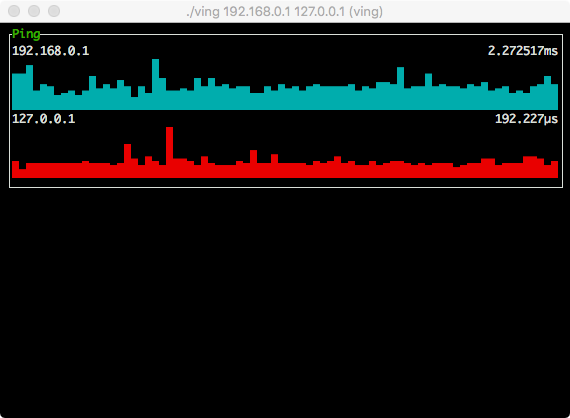
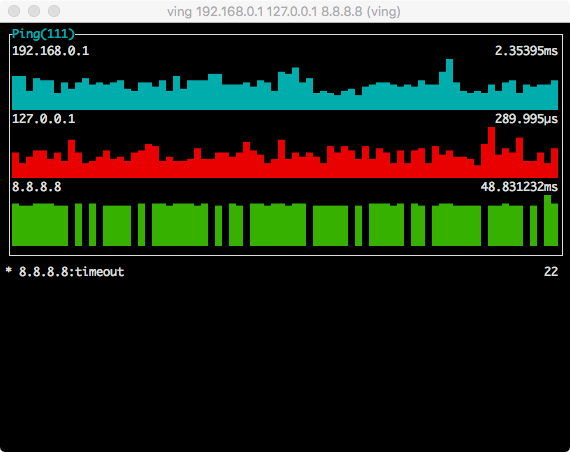
doc: update readme

Changed region(s): [[0.0, 0.0, 1.0, 0.622]]

diff --git a/README.md b/README.md
@@ -4,7 +4,7 @@ visual ping tool
 # Usage
 
 ```
-$ ving 192.168.0.1 127.0.0.1
+$ ving 192.168.0.1 127.0.0.1 8.8.8.8
 ```
 
 ![](./assets/screenshot.png)
